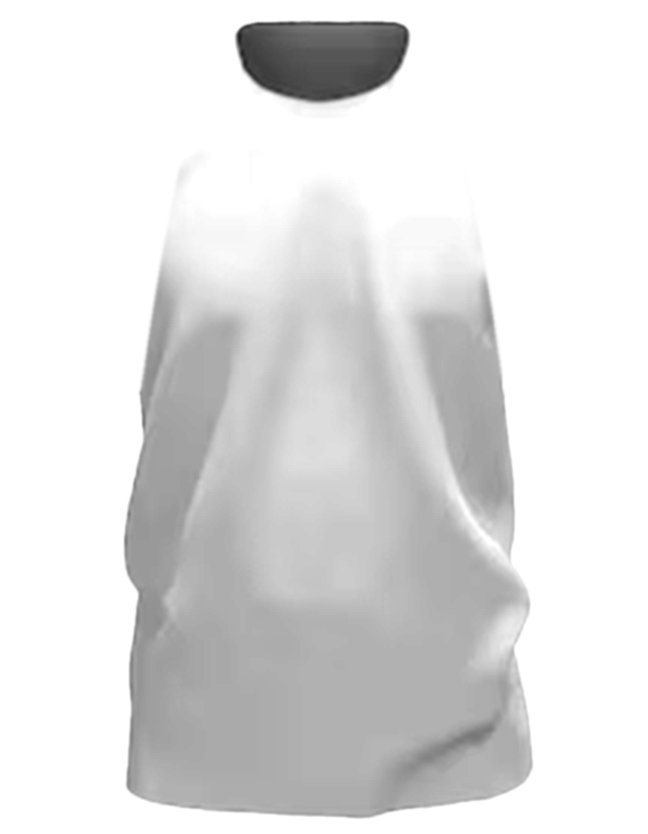
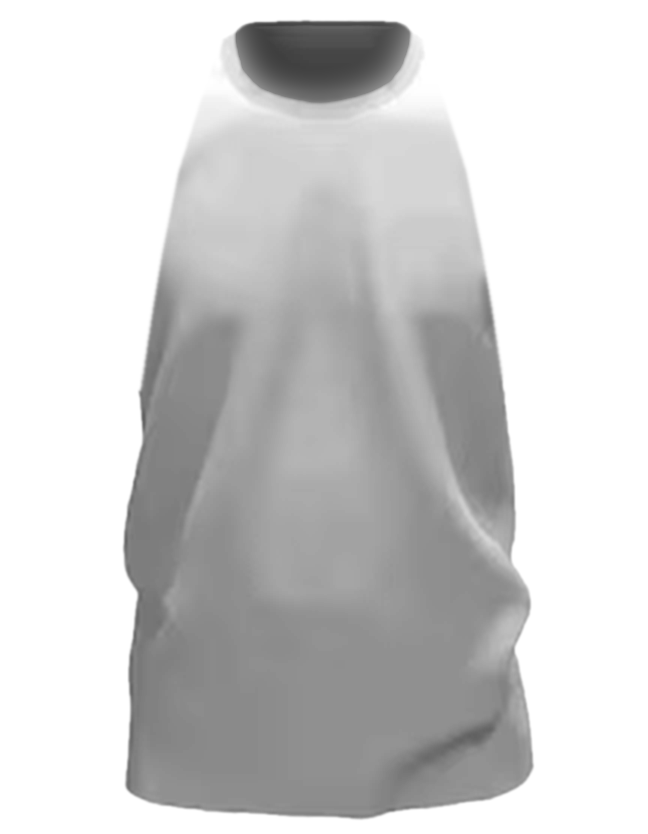
Estúdio 3D: camisa personalizada pintada sobre foto real (frente e costas); base da arara mais limpa
Claude-Session: https://claude.ai/code/session_01Uu7y85NYrRxHJpTA5gPKLt

diff --git a/index.html b/index.html
@@ -866,8 +866,8 @@ const Studio = (() => {
   const flip = document.createElement('div'); flip.className = 'flip';
   const cv = document.createElement('canvas'); cv.width = W*K; cv.height = H*K; cv.setAttribute('role','img');
   flip.appendChild(cv); stage.prepend(flip);
-  const g = cv.getContext('2d');
-  let side = 'front', hl = null, raf = 0;
+  let g = cv.getContext('2d'); const G0 = g;
+  let side = 'front', hl = null, raf = 0, clipBody = true;
 
   /* ---------- utilidades ---------- */
   const rgb = hex => { const n = parseInt(hex.slice(1),16); return [n>>16, n>>8&255, n&255]; };
@@ -907,12 +907,12 @@ const Studio = (() => {
   const mr = rng(7);
   const marble = Array.from({length:240},()=>({x:150+mr()*300, y:mr(), rx:3+mr()*20, ry:.6+mr()*2.4, a:(mr()-.5)*1.2, o:.3+mr()*.6}));
   function detail(color, white){
-    g.save(); g.clip(BODY); g.fillStyle = color; g.strokeStyle = color;
+    g.save(); if (clipBody) g.clip(BODY); g.fillStyle = color; g.strokeStyle = color;
     switch(S.tpl){
       case 'sombra': if (sym.complete && sym.naturalWidth){ const s = side==='back'?300:300;
           g.translate(side==='back'?300:mx(330), side==='back'?318:304); g.rotate(side==='back'?0:-.08);
           g.drawImage(tint(sym, white?'#ffffff':color), -s/2, -s/2, s, s); } break;
-      case 'campnou': g.fillRect(mx(side==='back'?322:232)-(side==='back'?46:0),0,46,H); g.fillRect(mx(side==='back'?310:290)-(side==='back'?10:0),0,10,H); break;
+      case 'campnou': g.fillRect(mx(side==='back'?322:232)-(side==='back'?46:0),0,46,H*1.5); g.fillRect(mx(side==='back'?310:290)-(side==='back'?10:0),0,10,H*1.5); break;
       case 'santiago':
         for (let k=-3;k<=3;k++) g.fillRect(300+k*52-13, 150, 26, H);
         g.beginPath(); g.moveTo(0,0); g.lineTo(W,0); g.lineTo(W,128); for (let k=6;k>=0;k--){ g.lineTo(k*100+50,150); g.lineTo(k*100,128); } g.closePath(); g.fill(); break;
@@ -922,7 +922,7 @@ const Studio = (() => {
         g.lineWidth=4; g.beginPath(); g.moveTo(190,264); g.quadraticCurveTo(300,238,410,264); g.stroke(); break;
       case 'munique': g.fill(P('M170,212 L214,226 L214,640 L160,640 Z')); g.fill(P('M430,212 L386,226 L386,640 L440,640 Z')); break;
       case 'diagonal': g.beginPath(); g.moveTo(mx(140),30); g.lineTo(mx(226),30); g.lineTo(mx(476),660); g.lineTo(mx(390),660); g.closePath(); g.fill(); break;
-      case 'degrade': { const gr = g.createLinearGradient(0,220,0,476); gr.addColorStop(0, white?'rgba(255,255,255,0)':rgba(color,0)); gr.addColorStop(1, white?'#fff':color); g.fillStyle=gr; g.fillRect(0,0,W,H); } break;
+      case 'degrade': { const gr = g.createLinearGradient(0,220,0,476); gr.addColorStop(0, white?'rgba(255,255,255,0)':rgba(color,0)); gr.addColorStop(1, white?'#fff':color); g.fillStyle=gr; g.fillRect(0,0,W,H*1.5); } break;
     }
     g.restore();
   }
@@ -946,82 +946,71 @@ const Studio = (() => {
       }
       if (S.frontNum && S.num){ g.font=`900 96px ${F}`; const y = S.pos==='centro' ? 400 : 330; g.lineWidth=6; g.strokeText(S.num,300,y); g.fillText(S.num,300,y); }
     } else {
-      if (!numFill && sym.complete && sym.naturalWidth) g.drawImage(tint(sym, c.numero===c.principal ? c.detalhe : c.numero), 289, 84, 22, 22);
+      if (!numFill && sym.complete && sym.naturalWidth) g.drawImage(tint(sym, c.numero===c.principal ? c.detalhe : c.numero), 289, 100, 22, 22);
       if (S.nome){ g.font=`800 48px ${F}`; g.lineWidth=6; const t = S.nome.toUpperCase(); g.strokeText(t,300,186); g.fillText(t,300,186); }
       if (S.num){ g.font=`900 200px ${F}`; g.lineWidth=9; g.strokeText(S.num,300,384); g.fillText(S.num,300,384); }
     }
     g.restore();
   }
 
-  /* ---------- desenho ---------- */
+  /* ---------- desenho 3D: pinta sobre foto real de camiseta ---------- */
+  const MW = 648, MH = 834, SC = 1.6, TX = 325-300*SC, TY = 20-58*SC;
+  const SH3 = {}; ['front','back'].forEach(n => { const i = new Image(); i.onload = () => { SH3[n] = i; draw(); }; i.src = `assets/mock/${n}.png`; });
+  const mk = () => { const c = document.createElement('canvas'); c.width = MW; c.height = MH; return [c, c.getContext('2d')]; };
+  const [LC, L] = mk(), [HC, HX] = mk();
+  const SL = [[0,40],[178,40],[172,95],[154,200],[146,290],[140,372],[0,372]];
+  const SLV_M = new Path2D(); [SL, SL.map(([x,y])=>[644-x,y])].forEach(p => { SLV_M.moveTo(...p[0]); p.slice(1).forEach(q=>SLV_M.lineTo(...q)); SLV_M.closePath(); });
+  const BODY_M = new Path2D(); BODY_M.rect(0,0,MW,MH); BODY_M.addPath(SLV_M);
+  const CUFF_M = [[[8,322],[140,352]],[[504,352],[640,322]]];
+  const studio = cx => cx.setTransform(SC,0,0,SC,TX,TY);
+  function collar3d(cx, color, w){ cx.strokeStyle = color; cx.lineWidth = w; cx.lineCap = 'round'; cx.lineJoin = 'round'; cx.beginPath();
+    if (side==='back'){ for (let x=236; x<=408; x+=4){ const y = 60 + 42*((x-322)/230)**2; x===236 ? cx.moveTo(x,y) : cx.lineTo(x,y); } cx.stroke(); return; }
+    if (S.gola==='v'){ cx.ellipse(322,48,86,52,0,Math.PI,Math.PI*2); cx.stroke(); cx.beginPath(); cx.moveTo(240,58); cx.lineTo(322,152); cx.lineTo(404,58); cx.stroke(); }
+    else { cx.ellipse(322,48,86,52,0,0,Math.PI*2); cx.stroke(); } }
+  function cuffs3d(cx, color){ cx.save(); cx.clip(SLV_M); cx.strokeStyle = color; cx.lineWidth = 28; cx.lineCap = 'butt'; CUFF_M.forEach(([a,b])=>{ cx.beginPath(); cx.moveTo(...a); cx.lineTo(...b); cx.stroke(); }); cx.restore(); }
   function draw(){
-    raf = 0;
-    const c = S.c;
-    g.setTransform(K,0,0,K,0,0); g.clearRect(0,0,W,H);
-    // sombra no chão/parede
-    g.save(); g.shadowColor='rgba(0,0,0,.55)'; g.shadowBlur=36*K; g.shadowOffsetY=22*K; g.fillStyle=c.principal; g.fill(SIL); g.restore();
-    // cores base
-    SLV.forEach(s=>{ g.fillStyle=c.mangas; g.fill(s); });
-    g.fillStyle=c.principal; g.fill(BODY);
-    if (S.tpl==='munique'){ g.save(); g.clip(BODY); g.fillStyle=shade(c.principal,-.16); for(let y=60;y<H;y+=11) for(let x=150+((y/11)%2)*6;x<460;x+=12){ g.beginPath(); g.moveTo(x,y+8); g.lineTo(x+4,y+1); g.lineTo(x+8,y+8); g.fill(); } g.restore(); }
+    raf = 0; const c = S.c, sh = SH3[side==='back'?'back':'front'];
+    G0.setTransform(1,0,0,1,0,0); G0.clearRect(0,0,cv.width,cv.height);
+    if (!sh) return;
+    // 1. pintura em cima da foto
+    L.setTransform(1,0,0,1,0,0); L.globalCompositeOperation = 'source-over'; L.globalAlpha = 1; L.clearRect(0,0,MW,MH);
+    L.fillStyle = c.principal; L.fillRect(0,0,MW,MH);
+    g = L; clipBody = false;
+    studio(L);
+    if (S.tpl==='munique'){ L.fillStyle=shade(c.principal,-.16); for(let y=40;y<H*1.5;y+=11) for(let x=80+((y/11)%2)*6;x<520;x+=12){ L.beginPath(); L.moveTo(x,y+8); L.lineTo(x+4,y+1); L.lineTo(x+8,y+8); L.fill(); } }
     if (S.tpl!=='lisa') detail(c.detalhe);
-    CUFF.forEach(s=>{ g.fillStyle=c.punhos; g.fill(s); });
-    prints();
-    // gola
-    g.save(); g.lineCap='round'; g.lineJoin='miter';
-    if (side==='front'){
-      const inner = S.gola==='v' ? P('M236,58 Q300,40 364,58 L300,140 Z') : P('M238,58 Q300,40 362,58 Q300,108 238,58 Z');
-      g.fillStyle=shade(c.principal,-.6); g.fill(inner);
-      g.save(); g.clip(inner); const ig = g.createLinearGradient(0,44,0,140); ig.addColorStop(0,'rgba(0,0,0,.1)'); ig.addColorStop(1,'rgba(0,0,0,.55)'); g.fillStyle=ig; g.fillRect(200,30,200,120);
-        g.fillStyle='rgba(255,255,255,.75)'; g.fillRect(288,58,24,13); g.fillStyle='rgba(0,0,0,.6)'; g.font='700 7px Barlow, sans-serif'; g.textAlign='center'; g.fillText('ZAPE',300,67); g.restore();
-      g.strokeStyle=shade(c.gola,-.25); g.lineWidth=9; g.stroke(COLLAR_BACK_IN);
-      g.strokeStyle=c.gola; g.lineWidth=15; g.stroke(collarFront());
-    } else { g.strokeStyle=c.gola; g.lineWidth=14; g.stroke(COLLAR_BACK); }
-    g.restore();
-    // tecido
-    g.save(); g.clip(SIL);
-    if (S.tecido!=='liso'){ g.fillStyle = g.createPattern(S.tecido==='colmeia'?T_COLMEIA:T_3D,'repeat'); g.fillRect(0,0,W,H); }
-    g.fillStyle = g.createPattern(T_NOISE,'repeat'); g.fillRect(0,0,W,H);
-    // sombras (multiply)
-    g.globalCompositeOperation='multiply';
-    let gr = g.createLinearGradient(170,0,430,0); gr.addColorStop(0,'rgba(0,0,0,.42)'); gr.addColorStop(.16,'rgba(0,0,0,.08)'); gr.addColorStop(.5,'rgba(0,0,0,0)'); gr.addColorStop(.84,'rgba(0,0,0,.1)'); gr.addColorStop(1,'rgba(0,0,0,.48)');
-    g.fillStyle=gr; g.fill(BODY);
-    gr = g.createLinearGradient(0,60,0,476); gr.addColorStop(0,'rgba(0,0,0,0)'); gr.addColorStop(.7,'rgba(0,0,0,.06)'); gr.addColorStop(1,'rgba(0,0,0,.28)'); g.fillStyle=gr; g.fill(BODY);
-    [[[110,120],[150,240]],[[490,120],[450,240]]].forEach(([a,b],i)=>{ const sg = g.createLinearGradient(a[0],a[1],b[0],b[1]); sg.addColorStop(0,'rgba(0,0,0,0)'); sg.addColorStop(1,'rgba(0,0,0,.38)'); g.fillStyle=sg; g.fill(SLV[i]); });
-    g.restore();
-    // dobras suaves
-    g.save(); g.clip(SIL);
-    const folds = [['M180,228 Q212,268 232,320',14,.42,18],['M420,228 Q388,268 368,320',14,.42,18],['M200,432 Q250,446 290,432',10,.22,14],['M330,446 Q372,432 408,440',10,.22,14],['M194,300 Q204,340 198,380',12,.2,16],['M406,296 Q396,340 404,386',12,.2,16],
-      ['M124,150 Q138,190 150,232',10,.32,12],['M476,150 Q462,190 450,232',10,.32,12],['M232,62 Q300,98 368,62',8,.3,10]];
-    folds.forEach(([d,w,a,b])=>soft(P(d), w, `rgba(0,0,0,${a})`, b));
-    ARM.forEach(p=>soft(p, 3, 'rgba(0,0,0,.6)', 5));
-    // brilhos (screen)
-    g.globalCompositeOperation='screen';
-    const lift = lum(c.principal) < .25 ? .16 : .1;
-    let rg = g.createRadialGradient(290,230,10,290,230,210); rg.addColorStop(0,`rgba(255,255,255,${lift})`); rg.addColorStop(1,'rgba(255,255,255,0)'); g.fillStyle=rg; g.fillRect(0,0,W,H);
-    [[206,104],[394,104]].forEach(([x,y])=>{ const q=g.createRadialGradient(x,y,4,x,y,70); q.addColorStop(0,`rgba(255,255,255,${lift*.9})`); q.addColorStop(1,'rgba(255,255,255,0)'); g.fillStyle=q; g.fillRect(0,0,W,H); });
-    [['M216,270 Q232,320 226,380',.10],['M372,270 Q356,326 366,384',.08]].forEach(([d,a])=>soft(P(d), 10, `rgba(255,255,255,${a*(lift/.1)})`, 16));
-    g.restore();
-    // costuras
-    g.save(); g.setLineDash([3,3]); g.lineWidth=1;
-    const st = lum(c.principal) > .55 ? 'rgba(0,0,0,.28)' : 'rgba(255,255,255,.16)';
-    [...ARM, ...CUFFSEAM, HEM].forEach(p=>{ g.strokeStyle=st; g.save(); g.translate(1.5,1.5); g.stroke(p); g.restore(); });
-    g.restore();
-    // contorno
-    g.save(); g.strokeStyle='rgba(0,0,0,.45)'; g.lineWidth=1.2; g.stroke(SIL); g.restore();
-    // destaque piscando
+    L.setTransform(1,0,0,1,0,0);
+    L.save(); L.clip(SLV_M); L.fillStyle = c.mangas; L.fillRect(0,0,MW,MH); L.restore();
+    cuffs3d(L, c.punhos);
+    studio(L); prints(); L.setTransform(1,0,0,1,0,0);
+    collar3d(L, c.gola, side==='back' ? 20 : 26);
+    // 2. tecido
+    if (S.tecido!=='liso'){ L.save(); L.scale(1.8,1.8); L.fillStyle = L.createPattern(S.tecido==='colmeia'?T_COLMEIA:T_3D,'repeat'); L.fillRect(0,0,MW,MH); L.restore(); }
+    L.fillStyle = L.createPattern(T_NOISE,'repeat'); L.fillRect(0,0,MW,MH);
+    // 3. luz e sombra da foto + recorte da silhueta
+    L.globalCompositeOperation = 'multiply'; L.drawImage(sh,0,0);
+    L.globalCompositeOperation = 'destination-in'; L.drawImage(sh,0,0);
+    L.globalCompositeOperation = 'screen'; L.globalAlpha = lum(c.principal) < .3 ? .2 : .06; L.drawImage(sh,0,0);
+    L.globalAlpha = 1; L.globalCompositeOperation = 'destination-in'; L.drawImage(sh,0,0);
+    L.globalCompositeOperation = 'source-over';
+    // 4. destaque piscando da parte escolhida
     if (hl && hl.a>0){
-      const wa = `rgba(255,255,255,${hl.a})`;
-      g.save(); g.fillStyle=wa; g.strokeStyle=wa;
-      if (hl.zone==='principal'){ g.fill(BODY); }
-      if (hl.zone==='detalhe'){ g.globalAlpha=hl.a/.45; detail('#ffffff', true); }
-      if (hl.zone==='mangas') SLV.forEach(s=>g.fill(s));
-      if (hl.zone==='punhos') CUFF.forEach(s=>g.fill(s));
-      if (hl.zone==='gola'){ g.lineWidth=16; g.lineCap='round'; g.stroke(side==='front'?collarFront():COLLAR_BACK); }
-      if (hl.zone==='numero'){ g.globalAlpha=hl.a/.45; prints('#ffffff'); }
-      if (hl.zone==='escudo' && side==='front'){ const b=crestBox(); g.fillRect(b.cx-b.h*.66,b.cy-b.h*.6,b.h*1.32,b.h*1.2); }
-      g.restore();
+      HX.setTransform(1,0,0,1,0,0); HX.globalCompositeOperation='source-over'; HX.globalAlpha=1; HX.clearRect(0,0,MW,MH);
+      const wa = '#ffffff'; HX.fillStyle = wa; g = HX;
+      if (hl.zone==='principal') HX.fill(BODY_M, 'evenodd');
+      if (hl.zone==='detalhe'){ studio(HX); detail(wa, true); HX.setTransform(1,0,0,1,0,0); HX.globalCompositeOperation='destination-out'; HX.fill(SLV_M); HX.globalCompositeOperation='source-over'; }
+      if (hl.zone==='mangas') HX.fill(SLV_M);
+      if (hl.zone==='punhos') cuffs3d(HX, wa);
+      if (hl.zone==='gola') collar3d(HX, wa, 30);
+      if (hl.zone==='numero'){ studio(HX); prints(wa); }
+      if (hl.zone==='escudo' && side==='front'){ studio(HX); const b=crestBox(); HX.fillRect(b.cx-b.h*.66,b.cy-b.h*.6,b.h*1.32,b.h*1.2); }
+      HX.setTransform(1,0,0,1,0,0); HX.globalCompositeOperation='destination-in'; HX.drawImage(sh,0,0);
+      L.globalAlpha = hl.a; L.drawImage(HC,0,0); L.globalAlpha = 1;
     }
+    g = G0; clipBody = true;
+    // 5. coloca na tela com sombra
+    const s = cv.height*0.95/MH, w = MW*s, x = (cv.width-w)/2, y = cv.height*0.025;
+    G0.save(); G0.shadowColor='rgba(0,0,0,.6)'; G0.shadowBlur=40*K; G0.shadowOffsetY=24*K; G0.drawImage(LC, x, y, w, MH*s); G0.restore();
     cv.setAttribute('aria-label', `Camisa personalizada, ${side==='front'?'frente':'costas'}`);
   }
   const redraw = () => { if (!raf) raf = requestAnimationFrame(draw); };
